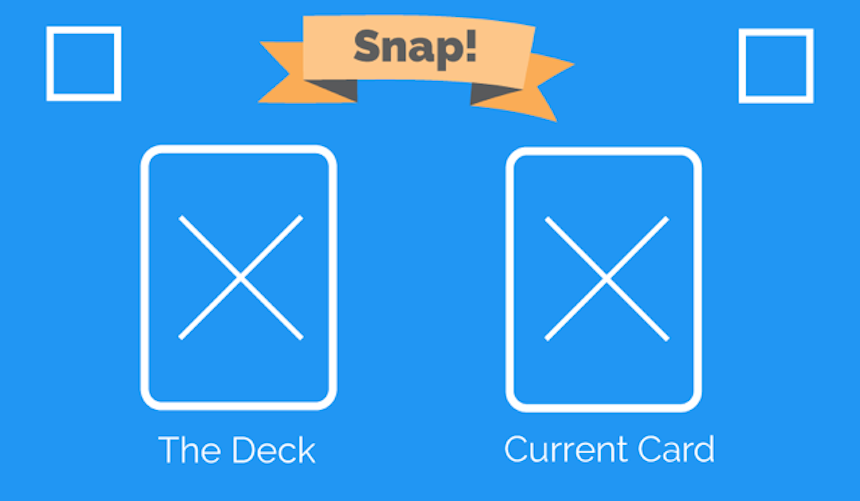
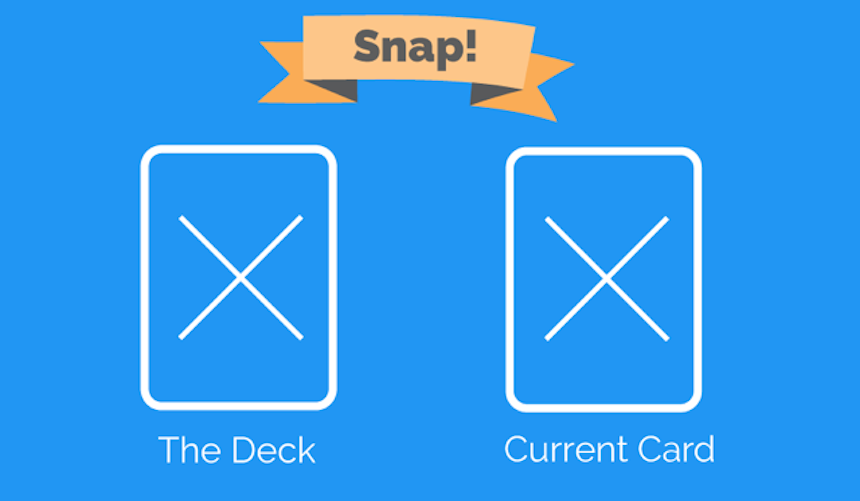
makes text readable

Changed region(s): [[0.0302, 0.0299, 0.1512, 0.2096], [0.8465, 0.0299, 0.9674, 0.2096]]

diff --git a/src/SnapGame.cs b/src/SnapGame.cs
@@ -55,14 +55,14 @@ namespace CardGames
 			Card top = myGame.TopCard;
 			if (top != null)
 			{
-                SwinGame.DrawText("Top Card is " + top.ToString(), Color.RoyalBlue, "GameFont", 0, 20);
-                SwinGame.DrawText("Player 1 score: " + myGame.Score(0), Color.RoyalBlue, "GameFont", 0, 30);
-                SwinGame.DrawText("Player 2 score: " + myGame.Score(1), Color.RoyalBlue, "GameFont", 0, 40);
+                SwinGame.DrawText("Top Card is " + top.ToString(), Color.White, "GameFont", 10, 20);
+                SwinGame.DrawText("Player 1 score: " + myGame.Score(0), Color.White, "GameFont", 10, 50);
+                SwinGame.DrawText("Player 2 score: " + myGame.Score(1), Color.White, "GameFont", 10, 80);
 				SwinGame.DrawCell (SwinGame.BitmapNamed ("Cards"), top.CardIndex, 521, 153);
 			}
 			else
 			{
-                SwinGame.DrawText("No card played yet...", Color.RoyalBlue, "GameFont", 0, 20);
+                SwinGame.DrawText("No card played yet...", Color.White, "GameFont", 10, 20);
 			}
 
 			// Draw the back of the cards... to represent the deck
